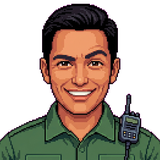
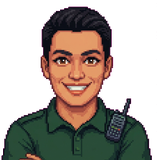
Art v11: FoMT-referenced character art — pixel sprites + shoujo portraits
Studied actual FoMT GBA sheets (main character walk cycles, Ann/Karen/
Popuri portraits) and rebuilt both character layers to match:

- Overworld sprites: A.character rewritten as a true pixel-grid
  renderer (16x20 units, 2-heads-tall FoMT proportions, 1px warm
  outline, two-tone shading, scissor-leg walk, 6 readable hairstyles,
  outfit-colored ballcap like the FoMT hero)
- Dialogue portraits: all 22 NPCs regenerated in the FoMT shoujo
  style — waist-up bust, oversized head, huge glossy eyes, warm-brown
  lineart, pastel cel shading, character poses — each with TWO
  expressions; Friend tier and above shows the happy face, like FoMT
  heart-event portraits (assets/portraits/<id>.png + <id>_happy.png)

diff --git a/js/art.js b/js/art.js
@@ -64,10 +64,12 @@
   A.loadPortraits = function () {
     for (const id in CS.NPCS) {
       if (id === 'fish') continue;
-      const img = new Image();
-      const e = PIMG[id] = { img, ready: false };
-      img.onload = () => { e.ready = true; };
-      img.src = 'assets/portraits/' + id + '.png';
+      for (const tag of ['', '_happy']) {
+        const img = new Image();
+        const e = PIMG[id + tag] = { img, ready: false };
+        img.onload = () => { e.ready = true; };
+        img.src = 'assets/portraits/' + id + tag + '.png';
+      }
     }
   };
   // draw one atlas tile; returns false if the sheet isn't available
@@ -1292,62 +1294,105 @@
   }
 
   A.character = function (ctx, sx, sy, T, opts, t, moving, facing) {
-    // opts: {skin, hair, style, outfit} — chibi with 4-way facing
+    // FoMT-study rewrite: true pixel-grid sprite (16x20 units, 2 heads tall,
+    // 1px outline, two tones per material) instead of smooth vectors.
     facing = facing || 'down';
-    const cx = sx + T / 2;
-    const feetY = sy + T - 3;
+    const u = T / 16;
     const walk = moving ? Math.sin(t / 85) : 0;
-    const bob = moving ? Math.abs(Math.sin(t / 85)) * -1.2 : 0;
-    sh(ctx, cx, feetY, 8.5, 3);
-    const dark = shade(opts.outfit, -36);
-    // legs (alternating step)
-    ctx.fillStyle = dark;
-    rr(ctx, cx - 5, feetY - 7 + Math.max(0, -walk * 2.4), 4.2, 7 - Math.max(0, -walk * 2.4), 2, dark);
-    rr(ctx, cx + 0.8, feetY - 7 + Math.max(0, walk * 2.4), 4.2, 7 - Math.max(0, walk * 2.4), 2, dark);
-    // shoes
-    ctx.fillStyle = '#4a3b2d';
-    rr(ctx, cx - 5.4, feetY - 2.4 + Math.max(0, -walk * 2), 5, 2.6, 1.2, '#4a3b2d');
-    rr(ctx, cx + 0.4, feetY - 2.4 + Math.max(0, walk * 2), 5, 2.6, 1.2, '#4a3b2d');
-    // torso with a true dark outline, FoMT-style
-    const bodyY = feetY - 16 + bob;
-    rr(ctx, cx - 8.5, bodyY - 1.5, 17, 14, 6.5, '#3a2a1e');
-    rr(ctx, cx - 7, bodyY, 14, 11, 5, opts.outfit);
-    rr(ctx, cx - 7, bodyY, 14, 4, 5, 'rgba(255,255,255,.16)'); // collar light
-    // arms with swing
-    ctx.fillStyle = opts.outfit;
-    rr(ctx, cx - 9.6, bodyY + 1.5 + walk * 1.6, 3.4, 7.5, 1.7, opts.outfit);
-    rr(ctx, cx + 6.2, bodyY + 1.5 - walk * 1.6, 3.4, 7.5, 1.7, opts.outfit);
-    circle(ctx, cx - 7.9, bodyY + 9.6 + walk * 1.6, 1.7, opts.skin); // hands
-    circle(ctx, cx + 7.9, bodyY + 9.6 - walk * 1.6, 1.7, opts.skin);
-    // head — Mineral Town proportions: the head IS the character
-    const hr = 10.5, hy = bodyY - hr + 3;
-    circle(ctx, cx, hy - .5, hr + 1.4, '#3a2a1e'); // solid outline
-    if (facing === 'up') {
-      // seen from behind: hair covers everything, no face
-      circle(ctx, cx, hy, hr, opts.skin);
-      ctx.fillStyle = opts.hair;
-      ctx.beginPath(); ctx.arc(cx, hy + hr * .04, hr * 1.02, 0, Math.PI * 2); ctx.fill();
-      if (opts.style === 'bun') circle(ctx, cx, hy - hr * .9, hr * .48, opts.hair);
-      if (opts.style === 'cap') { ctx.fillStyle = shade(opts.hair, 20); rr(ctx, cx - hr, hy - hr * .3, hr * 2, hr * .34, hr * .15, shade(opts.hair, 20)); }
-      if (opts.style === 'long') { rr(ctx, cx - hr * .55, hy, hr * 1.1, hr * 1.7, hr * .3, opts.hair); }
-      ctx.strokeStyle = 'rgba(255,255,255,.18)'; ctx.lineWidth = 1.4; ctx.lineCap = 'round';
-      ctx.beginPath(); ctx.arc(cx - hr * .1, hy - hr * .2, hr * .6, Math.PI * 1.15, Math.PI * 1.6); ctx.stroke();
-    } else if (facing === 'left' || facing === 'right') {
-      const dir = facing === 'left' ? -1 : 1;
-      A.head(ctx, cx, hy, hr, opts.skin, opts.hair, opts.style);
-      // profile: one eye toward the walking direction
-      const ex = cx + dir * hr * .5, ey = hy + hr * .12;
-      ctx.fillStyle = '#fff';
-      ctx.beginPath(); ctx.ellipse(ex, ey, hr * .15, hr * .19, 0, 0, Math.PI * 2); ctx.fill();
-      circle(ctx, ex + dir * hr * .03, ey + hr * .03, hr * .1, '#3a2e24');
-      ctx.fillStyle = 'rgba(220,120,110,.28)';
-      ctx.beginPath(); ctx.ellipse(cx + dir * hr * .2, hy + hr * .38, hr * .14, hr * .08, 0, 0, Math.PI * 2); ctx.fill();
-      ctx.strokeStyle = 'rgba(90,60,50,.6)'; ctx.lineWidth = Math.max(1, hr * .07); ctx.lineCap = 'round';
-      ctx.beginPath(); ctx.arc(cx + dir * hr * .45, hy + hr * .42, hr * .1, Math.PI * .2, Math.PI * .8); ctx.stroke();
+    const step = walk > .3 ? 1 : walk < -.3 ? -1 : 0;   // -1/0/1 leg phase
+    const bob = step !== 0 ? -1 : 0;                    // 1px hop on steps
+    const H = opts.hair, HD = shade(opts.hair, -36), HL = shade(opts.hair, 32);
+    const SK = opts.skin, SKD = shade(opts.skin, -18);
+    const O = opts.outfit, OD = shade(opts.outfit, -24);
+    const PT = shade(opts.outfit, -46), BT = '#4a3527';
+    const EY = '#26180f', OL = '#33241a', BL = 'rgba(226,120,110,.55)';
+    const style = opts.style || 'short';
+    const mirror = facing === 'right';
+    const ox = sx, oy = sy + T - 20 * u + bob * u;
+    sh(ctx, sx + T / 2, sy + T - 2, 8.5, 3);
+    ctx.save();
+    if (mirror) { ctx.translate(sx + T, 0); ctx.scale(-1, 1); ctx.translate(-sx, 0); }
+    const spans = [];
+    const p = (x, y, w, h, c) => spans.push([x, y, w, h, c]);
+    const side = facing === 'left' || facing === 'right';
+
+    if (facing === 'down') {
+      // hair dome + curtains framing the face
+      p(4, 0, 8, 2, H); p(3, 1, 10, 2, H); p(2, 2, 12, 4, H);
+      p(2, 5, 2, 4, H); p(12, 5, 2, 4, H);
+      p(4, 1, 4, 1, HL); p(12, 2, 2, 4, HD); p(2, 5, 1, 4, HD);
+      // face: eyes low on the head, tiny and dark
+      p(4, 6, 8, 4, SK); p(4, 9, 8, 1, SKD);
+      p(5, 7, 1, 2, EY); p(10, 7, 1, 2, EY);
+      p(4, 8, 1, 1, BL); p(11, 8, 1, 1, BL);
+      // torso + stub arms
+      p(4, 10, 8, 5, O); p(10, 10, 2, 5, OD); p(6, 10, 4, 1, OD);
+      const aL = step === 1 ? 1 : 0, aR = step === -1 ? 1 : 0;
+      p(3, 10 + aL, 1, 3, O); p(3, 13 + aL, 1, 1, SK);
+      p(12, 10 + aR, 1, 3, O); p(12, 13 + aR, 1, 1, SK);
+      // legs: alternating stubby boots
+      const lL = step === 1 ? -1 : 0, lR = step === -1 ? -1 : 0;
+      p(5, 15, 3, 3 + lL, PT); p(8, 15, 3, 3 + lR, PT);
+      p(5, 17 + lL, 3, 2, BT); p(8, 17 + lR, 3, 2, BT);
+    } else if (facing === 'up') {
+      p(4, 0, 8, 2, H); p(3, 1, 10, 2, H); p(2, 2, 12, 8, H);
+      p(4, 1, 4, 1, HL); p(11, 2, 3, 8, HD);
+      p(5, 10, 6, 1, OD);
+      p(4, 10, 8, 5, O); p(10, 10, 2, 5, OD);
+      const aL = step === 1 ? 1 : 0, aR = step === -1 ? 1 : 0;
+      p(3, 10 + aL, 1, 3, O); p(12, 10 + aR, 1, 3, O);
+      const lL = step === 1 ? -1 : 0, lR = step === -1 ? -1 : 0;
+      p(5, 15, 3, 3 + lL, PT); p(8, 15, 3, 3 + lR, PT);
+      p(5, 17 + lL, 3, 2, BT); p(8, 17 + lR, 3, 2, BT);
     } else {
-      A.head(ctx, cx, hy, hr, opts.skin, opts.hair, opts.style);
-      face(ctx, cx, hy, hr);
+      // profile: face forward at the left, heavy back of head
+      p(4, 0, 8, 2, H); p(3, 1, 10, 2, H); p(2, 2, 12, 4, H);
+      p(7, 5, 7, 5, H); p(12, 2, 2, 7, HD); p(4, 1, 4, 1, HL);
+      p(2, 6, 5, 4, SK); p(1, 7, 1, 2, SK);   // nose bump
+      p(2, 9, 5, 1, SKD);
+      p(3, 7, 1, 2, EY); p(2, 8, 1, 1, BL);
+      p(4, 10, 8, 5, O); p(9, 10, 3, 5, OD);
+      const sw = step;                          // arm swings with the stride
+      p(6 - sw, 11, 2, 3, O); p(6 - sw, 14, 2, 1, SK);
+      const lF = step === 1 ? -1 : 0, lB = step === -1 ? -1 : 0;
+      p(4 - (step === 1 ? 1 : 0), 15, 3, 3 + lF, PT);
+      p(8 + (step === -1 ? 1 : 0), 15, 3, 3 + lB, PT);
+      p(4 - (step === 1 ? 1 : 0), 17 + lF, 3, 2, BT);
+      p(8 + (step === -1 ? 1 : 0), 17 + lB, 3, 2, BT);
     }
+
+    // hairstyle silhouettes on top of the base dome
+    if (style === 'long') {
+      if (facing === 'up') { p(2, 9, 12, 4, H); p(11, 9, 3, 4, HD); }
+      else if (side) { p(8, 8, 6, 6, H); p(12, 8, 2, 6, HD); }
+      else { p(1, 6, 2, 7, H); p(13, 6, 2, 7, H); p(14, 6, 1, 7, HD); }
+    } else if (style === 'bun') {
+      p(side ? 9 : 6, -2, 4, 2, H); p(side ? 11 : 8, -2, 2, 1, HD);
+    } else if (style === 'curly') {
+      p(0, 3, 2, 2, H); p(14, 3, 2, 2, H); p(1, 0, 2, 1, H); p(13, 0, 2, 1, H);
+      p(0, 6, 1, 1, H); p(15, 6, 1, 1, H); p(14, 4, 2, 1, HD);
+    } else if (style === 'wrap') {
+      p(2, 4, 12, 1, O); p(facing === 'up' ? 5 : 11, 0, 3, 2, HD);
+    } else if (style === 'cap') {
+      // ballcap in the outfit color, like the FoMT hero
+      p(4, 0, 8, 2, O); p(3, 1, 10, 2, O); p(2, 2, 12, 3, O);
+      p(4, 1, 4, 1, shade(opts.outfit, 26));
+      if (facing === 'down') p(1, 4, 8, 1, OD);
+      else if (side) p(0, 4, 6, 1, OD);
+      else p(5, 4, 6, 1, OD);
+      p(7, 0, 2, 1, OD);
+    }
+
+    // pass 1: 1px outline behind everything; pass 2: fills
+    for (const [x, y, w, h, c] of spans) {
+      ctx.fillStyle = OL;
+      ctx.fillRect(ox + (x - 1) * u, oy + (y - 1) * u, (w + 2) * u, (h + 2) * u);
+    }
+    for (const [x, y, w, h, c] of spans) {
+      ctx.fillStyle = c;
+      ctx.fillRect(ox + x * u, oy + y * u, w * u, h * u);
+    }
+    ctx.restore();
   };
 
   A.portrait = function (canvas, opts, id) {
@@ -1359,8 +1404,13 @@
     c.beginPath(); c.roundRect(0, 0, S, S, S * .24); c.fill();
     c.fillStyle = 'rgba(92,138,111,.12)';
     c.beginPath(); c.roundRect(0, S * .55, S, S * .45, S * .24); c.fill();
-    // generated portrait sprite, when this NPC has one loaded
-    const pim = id && A.portraitImg(id);
+    // generated portrait sprite, when this NPC has one loaded;
+    // close friends get the happy expression, like FoMT heart portraits
+    let pim = null;
+    if (id) {
+      const happy = CS.game && CS.game.tierOf && CS.game.tierOf(id) >= 3;
+      pim = (happy && A.portraitImg(id + '_happy')) || A.portraitImg(id);
+    }
     if (pim) {
       c.save();
       c.beginPath(); c.roundRect(0, 0, S, S, S * .24); c.clip();

diff --git a/index.html b/index.html
@@ -8,7 +8,7 @@
 <title>Concrete Seasons</title>
 <link rel="manifest" href="manifest.json">
 <link rel="apple-touch-icon" href="apple-touch-icon.png">
-<link rel="stylesheet" href="css/style.css?v=24">
+<link rel="stylesheet" href="css/style.css?v=25">
 </head>
 <body>
 
@@ -236,20 +236,20 @@
 </div>
 
 <!-- content (data-driven; load order: constants → world → things → people → words) -->
-<script src="js/data/core.js?v=24"></script>
-<script src="js/data/world.js?v=24"></script>
-<script src="js/data/economy.js?v=24"></script>
-<script src="js/data/npcs.js?v=24"></script>
-<script src="js/data/schedules.js?v=24"></script>
-<script src="js/data/dialogue.js?v=24"></script>
-<script src="js/data/festivals.js?v=24"></script>
-<script src="js/data/arcs.js?v=24"></script>
+<script src="js/data/core.js?v=25"></script>
+<script src="js/data/world.js?v=25"></script>
+<script src="js/data/economy.js?v=25"></script>
+<script src="js/data/npcs.js?v=25"></script>
+<script src="js/data/schedules.js?v=25"></script>
+<script src="js/data/dialogue.js?v=25"></script>
+<script src="js/data/festivals.js?v=25"></script>
+<script src="js/data/arcs.js?v=25"></script>
 <!-- systems -->
-<script src="js/audio.js?v=24"></script>
-<script src="js/art.js?v=24"></script>
-<script src="js/engine.js?v=24"></script>
-<script src="js/game.js?v=24"></script>
-<script src="js/ui.js?v=24"></script>
-<script src="js/main.js?v=24"></script>
+<script src="js/audio.js?v=25"></script>
+<script src="js/art.js?v=25"></script>
+<script src="js/engine.js?v=25"></script>
+<script src="js/game.js?v=25"></script>
+<script src="js/ui.js?v=25"></script>
+<script src="js/main.js?v=25"></script>
 </body>
 </html>

diff --git a/sw.js b/sw.js
@@ -1,7 +1,7 @@
 /* Concrete Seasons — service worker.
    Cache-first so the game is fully playable offline / in airplane mode.
    Bump CACHE_VERSION on every release so clients pick up new files. */
-const CACHE_VERSION = 'cs-v24';
+const CACHE_VERSION = 'cs-v25';
 const ASSETS = [
   './',
   './index.html',
@@ -64,6 +64,28 @@ const ASSETS = [
   './assets/portraits/ava.png',
   './assets/portraits/nia.png',
   './assets/portraits/claire.png',
+  './assets/portraits/maya_happy.png',
+  './assets/portraits/daniel_happy.png',
+  './assets/portraits/lena_happy.png',
+  './assets/portraits/nico_happy.png',
+  './assets/portraits/grace_happy.png',
+  './assets/portraits/malik_happy.png',
+  './assets/portraits/joan_happy.png',
+  './assets/portraits/rosa_happy.png',
+  './assets/portraits/mrs_woo_happy.png',
+  './assets/portraits/sofia_happy.png',
+  './assets/portraits/gabriel_happy.png',
+  './assets/portraits/theo_happy.png',
+  './assets/portraits/avery_happy.png',
+  './assets/portraits/naomi_happy.png',
+  './assets/portraits/arjun_happy.png',
+  './assets/portraits/priya_happy.png',
+  './assets/portraits/jordan_happy.png',
+  './assets/portraits/mei_lin_happy.png',
+  './assets/portraits/mateo_happy.png',
+  './assets/portraits/ava_happy.png',
+  './assets/portraits/nia_happy.png',
+  './assets/portraits/claire_happy.png',
 ];
 
 self.addEventListener('install', (e) => {
